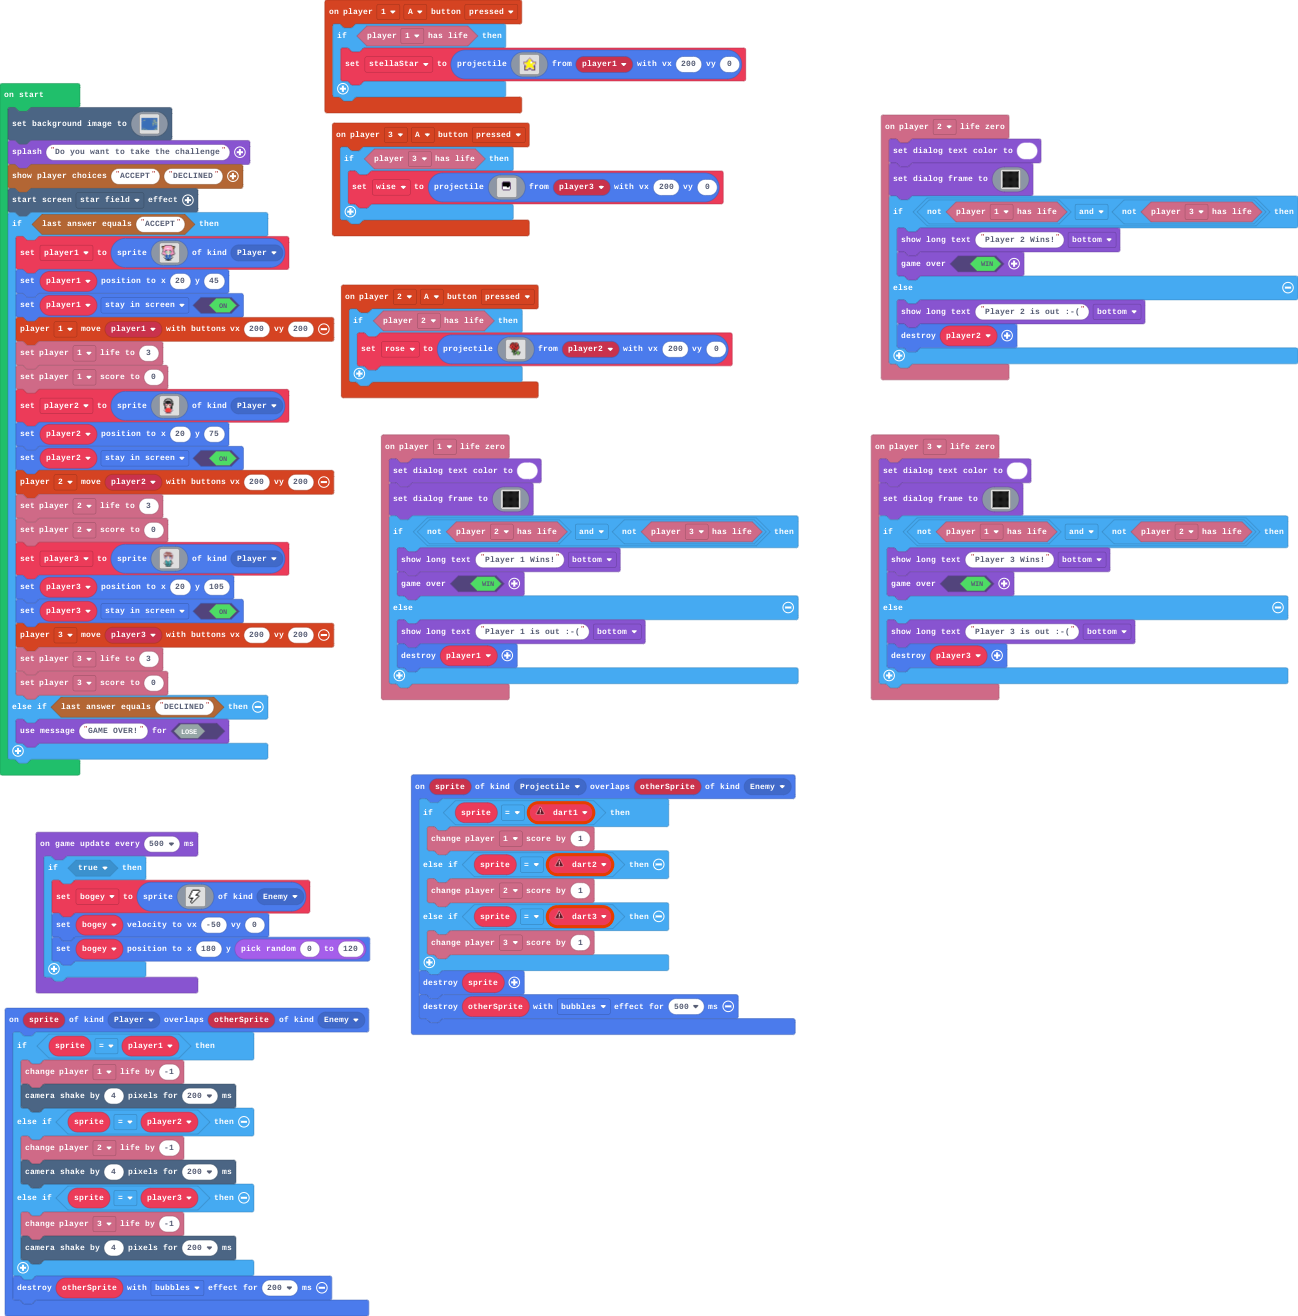
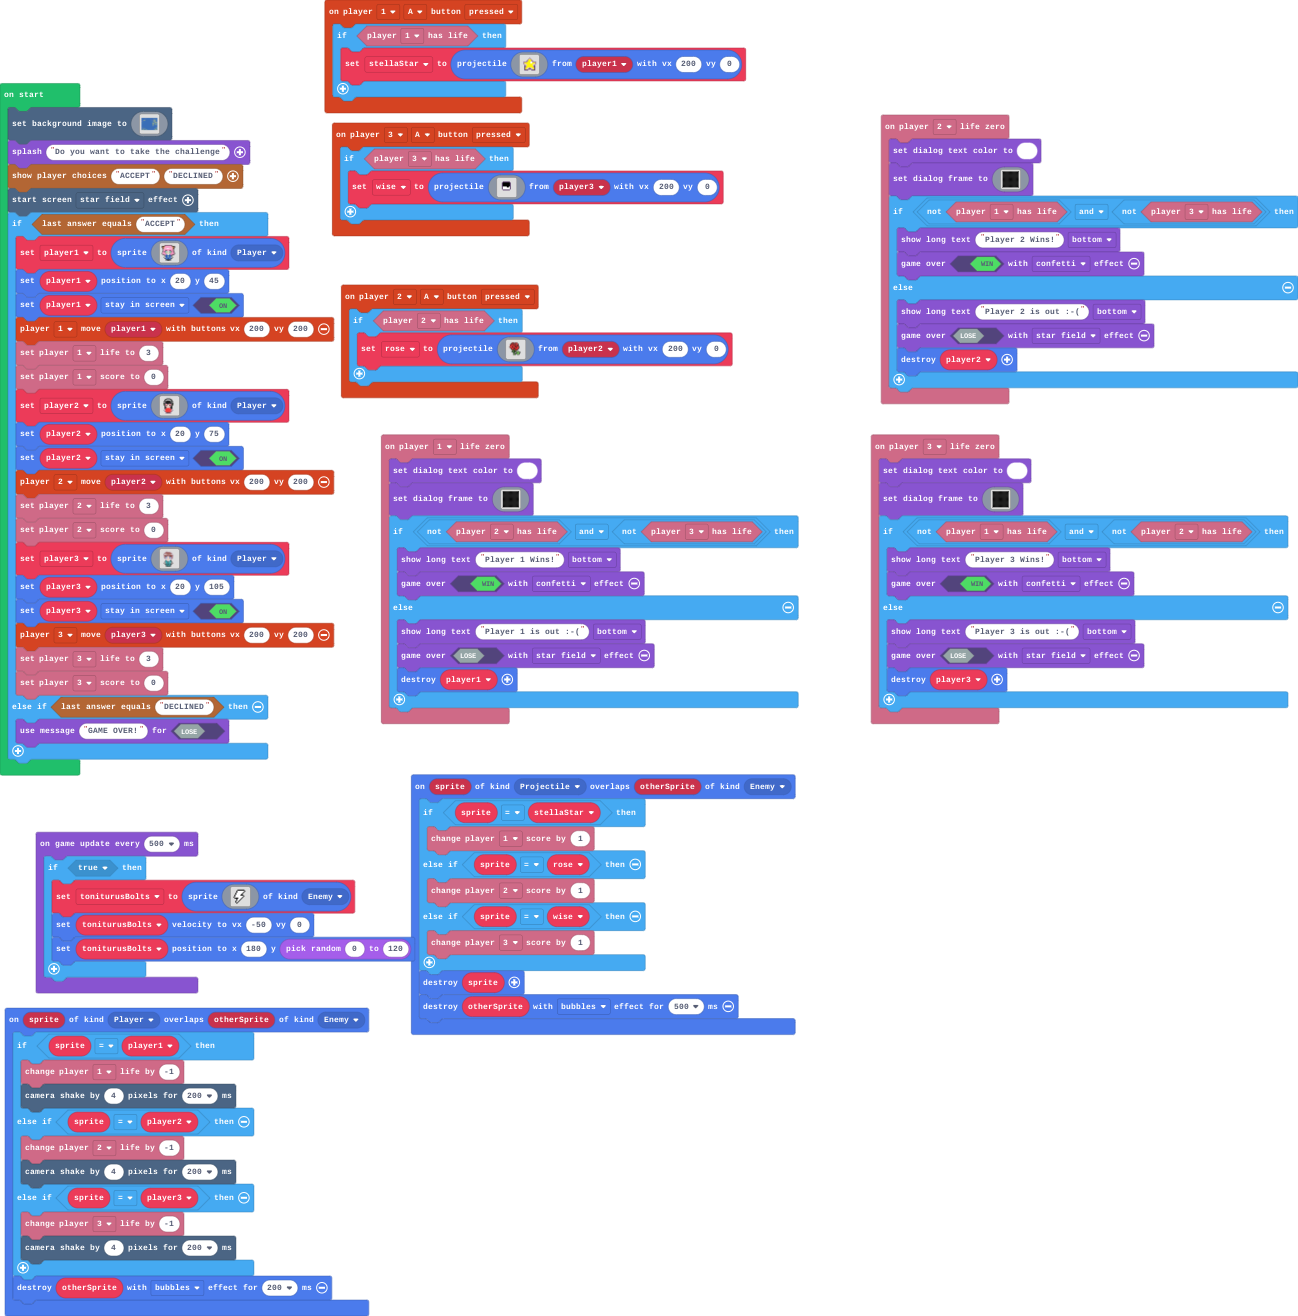
edited the projectiles nae and added a gae over feature.

diff --git a/main.ts b/main.ts
@@ -24,9 +24,10 @@ info.player3.onLifeZero(function () {
         `)
     if (!(info.player1.hasLife()) && !(info.player2.hasLife())) {
         game.showLongText("Player 3 Wins!", DialogLayout.Bottom)
-        game.over(true)
+        game.over(true, effects.confetti)
     } else {
         game.showLongText("Player 3 is out :-(", DialogLayout.Bottom)
+        game.over(false, effects.starField)
         player3.destroy()
     }
 })
@@ -73,9 +74,10 @@ info.player1.onLifeZero(function () {
         `)
     if (!(info.player2.hasLife()) && !(info.player3.hasLife())) {
         game.showLongText("Player 1 Wins!", DialogLayout.Bottom)
-        game.over(true)
+        game.over(true, effects.confetti)
     } else {
         game.showLongText("Player 1 is out :-(", DialogLayout.Bottom)
+        game.over(false, effects.starField)
         player1.destroy()
     }
 })
@@ -122,21 +124,19 @@ info.player2.onLifeZero(function () {
         `)
     if (!(info.player1.hasLife()) && !(info.player3.hasLife())) {
         game.showLongText("Player 2 Wins!", DialogLayout.Bottom)
-        game.over(true)
+        game.over(true, effects.confetti)
     } else {
         game.showLongText("Player 2 is out :-(", DialogLayout.Bottom)
+        game.over(false, effects.starField)
         player2.destroy()
     }
 })
 sprites.onOverlap(SpriteKind.Projectile, SpriteKind.Enemy, function (sprite, otherSprite) {
-    let dart3: Sprite = null
-    let dart2: Sprite = null
-    let dart1: Sprite = null
-    if (sprite == dart1) {
+    if (sprite == stellaStar) {
         info.player1.changeScoreBy(1)
-    } else if (sprite == dart2) {
+    } else if (sprite == rose) {
         info.player2.changeScoreBy(1)
-    } else if (sprite == dart3) {
+    } else if (sprite == wise) {
         info.player3.changeScoreBy(1)
     }
     sprite.destroy()
@@ -155,7 +155,7 @@ sprites.onOverlap(SpriteKind.Player, SpriteKind.Enemy, function (sprite, otherSp
     }
     otherSprite.destroy(effects.bubbles, 200)
 })
-let bogey: Sprite = null
+let toniturusBolts: Sprite = null
 let wise: Sprite = null
 let stellaStar: Sprite = null
 let rose: Sprite = null
@@ -311,7 +311,7 @@ if (story.checkLastAnswer("ACCEPT")) {
 }
 game.onUpdateInterval(500, function () {
     if (true) {
-        bogey = sprites.create(img`
+        toniturusBolts = sprites.create(img`
             . . . . . . . . . . . . . . . . 
             . . . . . f f f f f f f . . . . 
             . . . . f 1 1 1 1 1 1 1 f . . . 
@@ -329,7 +329,7 @@ game.onUpdateInterval(500, function () {
             . . . . f . . . . . . . . . . . 
             . . . . . . . . . . . . . . . . 
             `, SpriteKind.Enemy)
-        bogey.setVelocity(-50, 0)
-        bogey.setPosition(180, randint(0, 120))
+        toniturusBolts.setVelocity(-50, 0)
+        toniturusBolts.setPosition(180, randint(0, 120))
     }
 })
